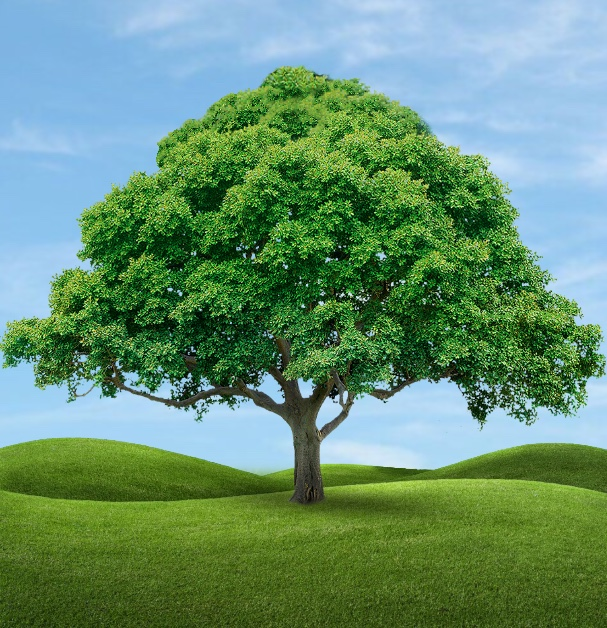
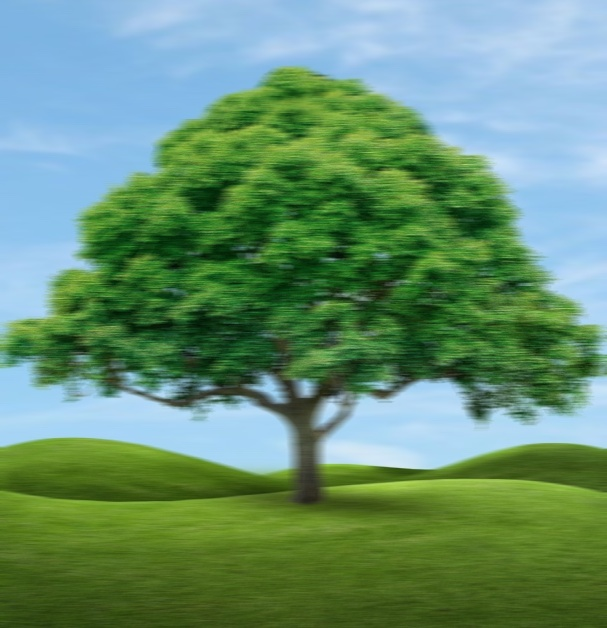
Remove image and change path to image tree.jpg for imwrite

diff --git a/motion_blur.py b/motion_blur.py
@@ -2,18 +2,19 @@ import cv2
 import argparse
 import numpy as np 
 
-
+'''
 #handle cmd arguments
 ap = argparse.ArgumentParser()
 ap.add_argument("-i", "--image", required=True, help="Path to the image")
 args = vars(ap.parse_args())
-
+'''
+path = 'tree.jpg'
 #Normal window 
 cv2.namedWindow("Motion Blur", cv2.WINDOW_NORMAL)
 #cv2.resizeWindow('0', 600, 600)
 
 #open image 
-image = cv2.imread(args["image"])
+image = cv2.imread(path)
 
 size = 15
 
@@ -23,6 +24,8 @@ kernel_motion_blur = kernel_motion_blur / size
 
 img_output = cv2.filter2D(image, -1, kernel_motion_blur)
 
+#Write to file 
+cv2.imwrite(path, img_output)
 #show an image
 cv2.imshow('Motion Blur', img_output)
 cv2.waitKey(0)
